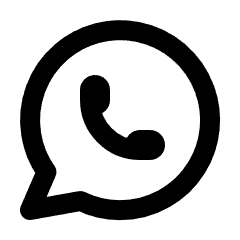
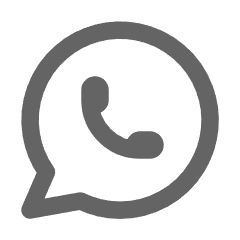
Se actuzalizó la interfaz y se cambió a modo oscuro

Changed region(s): [[0.0583, 0.0583, 0.9333, 0.9333], [0.3208, 0.2917, 0.7, 0.6708]]

diff --git a/src/app/page.jsx b/src/app/page.jsx
@@ -1,0 +1,61 @@
+import Project from "@/components/contain-projects";
+import MyForm from "@/components/form";
+
+export default function Home() {
+  return (
+      <main className="bg-zinc-950 text-white">
+        <header className="bg-white w-[90%] rounded-full fixed left-[5%] right-[5%] top-[10px] py-[10px] px-[20px] bg-opacity-5 backdrop-filter backdrop-blur-3xl">
+          <nav className="flex justify-center items-center gap-[25px]">
+            <a className="cursor-pointer" href="#projects">Proyectos</a>
+            <a className="cursor-pointer" href="#skills">Habilidades</a>
+            <a className="cursor-pointer" href="#contact">Contacto</a>
+          </nav>
+        </header>
+        <article className="max-w-[800px] min-h-screen mx-auto text-center flex flex-col justify-center items-center">
+          <h1 className="text-5xl">Blitzkreig</h1>
+          <h2 className="text-2xl text-zinc-300">Desarrollador Web Fullstack y Diseñador Web minimalista</h2>
+        </article>
+        <article className="max-w-[800px] mx-auto text-center">
+        <section className="pt-[100px]" id="projects">
+          <h2 className="text-2xl">Mis Proyectos</h2>
+          <Project name='Tienda online' description='Tienda online creada con Vite, React y Tailwind' image='./web_store_project.png' link='https://online-web-store-frontend.vercel.app/' />
+          <Project name='Cursos y Mentorías' description='Página de cursos y mentorías creada con NextJS, React y Tailwind' image='./course_web_project.png' link='https://course-web-ebon.vercel.app/' />
+          <Project name='Blog Personal' description='Blog personal creadad con Vite, React y Tailwind' image='./blog_project.png' link='https://blog-one-ivory-47.vercel.app/' />
+          <Project name='Web Corporativa' description='Web corporativa creada con NextJS, React y Tailwind' image='./web_corporative_project.png' link='https://corporate-web-sooty.vercel.app/' />
+          <Project name='Componente de Música' description='Componente de música creada con Html, Css y Javascript vanilla' image='./music-app-project.png' link='https://music-app-zeta-five.vercel.app/' />
+        </section>
+        <section className="py-[100px]" id="skills">
+          <h2 className="text-2xl">Mi Stack de Habilidades</h2>
+          <h3 className="text-lg text-zinc-300">Este es mi Stack de las tecnologías y herramientas con las que trabajo.</h3>
+          <ul className="mt-5 flex flex-col justify-start items-center gap-2">
+            <li>HTML</li>
+            <li>CSS / TailwindCSS</li>
+            <li>JavaScript</li>
+            <li>React / NextJS</li>
+            <li>NodeJS / Express</li>
+            <li>PostgreSQL</li>
+            <li>Git / GitHub</li>
+            <li>Typescript</li>
+            <li>Arquítectura MVC</li>
+          </ul>
+        </section>
+        <section className="pb-[50px]" id="contact">
+          <h2 className="text-2xl">Hablemos</h2>
+          <h3 className="text-lg text-zinc-300">Contactame si necesitas realizar un proyecto web o si deseas colaborar conmigo.</h3>
+          <MyForm />
+          <div className="flex justify-center items-center gap-[15px] my-[25px]">
+            <a href="https://github.com/Blitzkreigx" target="_BLANK">
+              <img src="./brand-github.png" alt="Github" className="w-[50px] h-[50px] cursor-pointer" />
+            </a>
+            <a href="https://www.linkedin.com/in/cristian-bautista-pérez-958360288/" target="_BLANK">
+              <img src="./brand-linkedin.png" alt="Lindedin" className="w-[50px] h-[50px] cursor-pointer" />
+            </a>
+            <a href="https://wa.me/525573237684?text=Hola,%20me%20gustaría%20realizar%20una%20consulta" target="_BLANK">
+              <img src="./brand-whatsapp.png" alt="Whatsapp" className="w-[50px] h-[50px] cursor-pointer" />
+            </a>
+          </div>
+        </section>
+        </article>
+      </main>
+  );
+}

diff --git a/src/components/form.jsx b/src/components/form.jsx
@@ -2,10 +2,10 @@ function MyForm() {
     return (
         <>
             <form action="https://formspree.io/f/mbjvpygn" method="POST" className="flex flex-col justify-center items-center gap-5 mt-5">
-                <input type="text" name="name" placeholder="Nombre Completo" required className="border-gray-400 border-[1px] rounded-[3px] py-1 px-2 min-w-[350px]" />
-                <input type="email" name="email" id="email" placeholder="Correo Electronico" required className="border-gray-400 border-[1px] rounded-[3px] py-1 px-2 min-w-[350px]" pattern="^[a-zA-Z0-9.!#$%&'*+/=?^_`{|}~-]+@[a-zA-Z0-9-]+(?:\.[a-zA-Z0-9-]+)*$" />
-                <textarea name="message" id="message" placeholder="Mensaje Descriptivo" required className="border-gray-400 border-[1px] rounded-[3px] py-1 px-2 min-w-[350px]"></textarea>
-                <input type="submit" value="Enviar" className="bg-black text-white py-2 px-6 rounded-[5px] cursor-pointer" />
+                <input type="text" name="name" placeholder="Nombre Completo" required className="rounded-[3px] py-1 px-2 min-w-[350px] w-[50%] bg-neutral-800 placeholder:text-neutral-400" />
+                <input type="email" name="email" id="email" placeholder="Correo Electronico" required className="rounded-[3px] py-1 px-2 min-w-[350px] w-[50%] bg-neutral-800 placeholder:text-neutral-400" pattern="^[a-zA-Z0-9.!#$%&'*+/=?^_`{|}~-]+@[a-zA-Z0-9-]+(?:\.[a-zA-Z0-9-]+)*$" />
+                <textarea name="message" id="message" placeholder="Mensaje Descriptivo" required className="rounded-[3px] py-1 px-2 min-w-[350px] w-[50%] min-h-[100px] resize-none bg-neutral-800 placeholder:text-neutral-400"></textarea>
+                <input type="submit" value="Enviar" className="bg-neutral-900 text-white py-2 px-4 min-w-[350px] w-[50%] rounded-[5px] cursor-pointer" />
             </form>
         </>
     );

diff --git a/src/components/contain-projects.jsx b/src/components/contain-projects.jsx
@@ -1,12 +1,12 @@
 function Project(props) {
     return (
-        <div className="grid grid-cols-1 gap-[20px] justify-between items-center min-w-[350px] max-w-[800px] mx-[auto] my-[25px] border-gray-300 border-[1px] md:flex-row px-[5px] py-[20px] md:rounded-[10px] md:grid-cols-3 md:grid-rows-1">
-            <img src={props.imagen} alt={props.nombre} className="max-w-[90%] max-h-full mx-auto" />
+        <div className="grid grid-cols-1 gap-[20px] justify-between items-center min-w-[350px] max-w-[800px] mx-auto my-[20px] bg-neutral-900 border-neutral-800 border-[1px] md:flex-row px-[5px] py-[20px] md:rounded-[10px] md:grid-cols-3 md:grid-rows-1 text-start">
+            <img src={props.image} alt={props.name} className="max-w-[90%] max-h-full mx-auto" />
             <div className="min-w-[90%] max-w-[90%] mx-auto md:min-w-[100%] md:col-span-2">
-              <p><b>{props.nombre}</b></p>
-              <p>{props.descripcion}</p>
+              <p className="text-lg">{props.name}</p>
+              <p className="text-zinc-300">{props.description}</p>
               <div className="flex justify-start items-center gap-y-2 gap-x-5 mt-[10px]">
-                <button className="bg-black text-white rounded-[5px] px-[6px] py-[3px]"><a href={props.link} target="_BLANK">Ver Proyecto</a></button>
+                <a href={props.link} target="_BLANK" className="bg-neutral-800 text-zinc-100 rounded-[5px] py-[5px] px-[10px]">Ver Proyecto</a>
               </div>
             </div>
         </div>

diff --git a/src/app/layout.js b/src/app/layout.js
@@ -1,4 +1,3 @@
-// import { Inter } from "next/font/google";
 import { Montserrat } from "next/font/google";
 import "./globals.css";
 
@@ -6,7 +5,7 @@ const montserrat = Montserrat({ subsets: ["latin"] });
 
 export const metadata = {
   title: "Desarrollador Fullstack | Blitzkreig",
-  description: "Portafolio Web de un desarrollador web fullstack",
+  description: "Desarrollador Fullstack con conocimientos en React, NextJS, Tailwindcss, NodeJS, Express, PostgreSQL, Typescript, Metodología MVC",
 };
 
 export default function RootLayout({ children }) {
